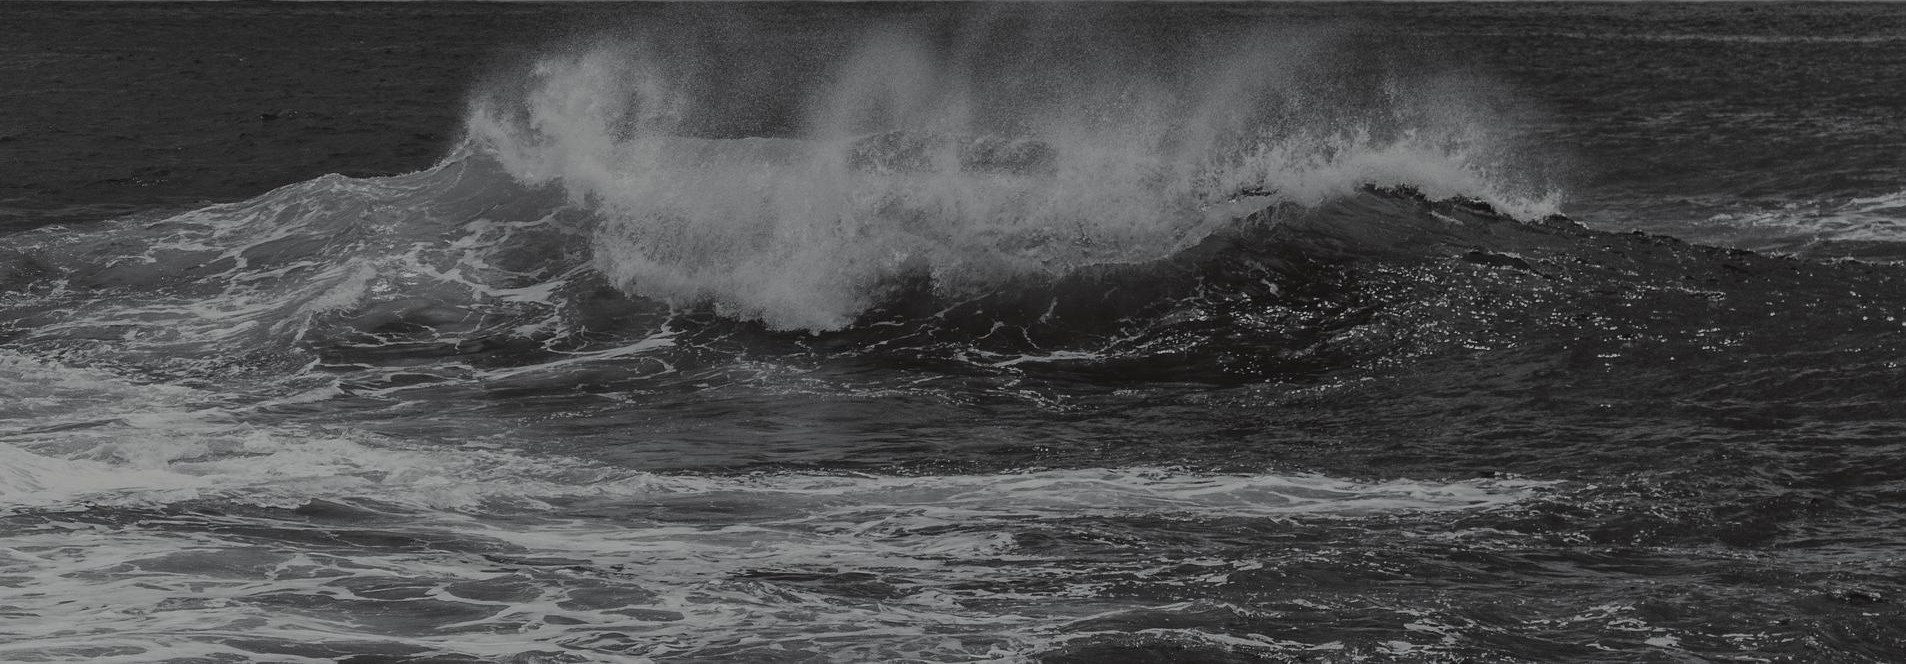
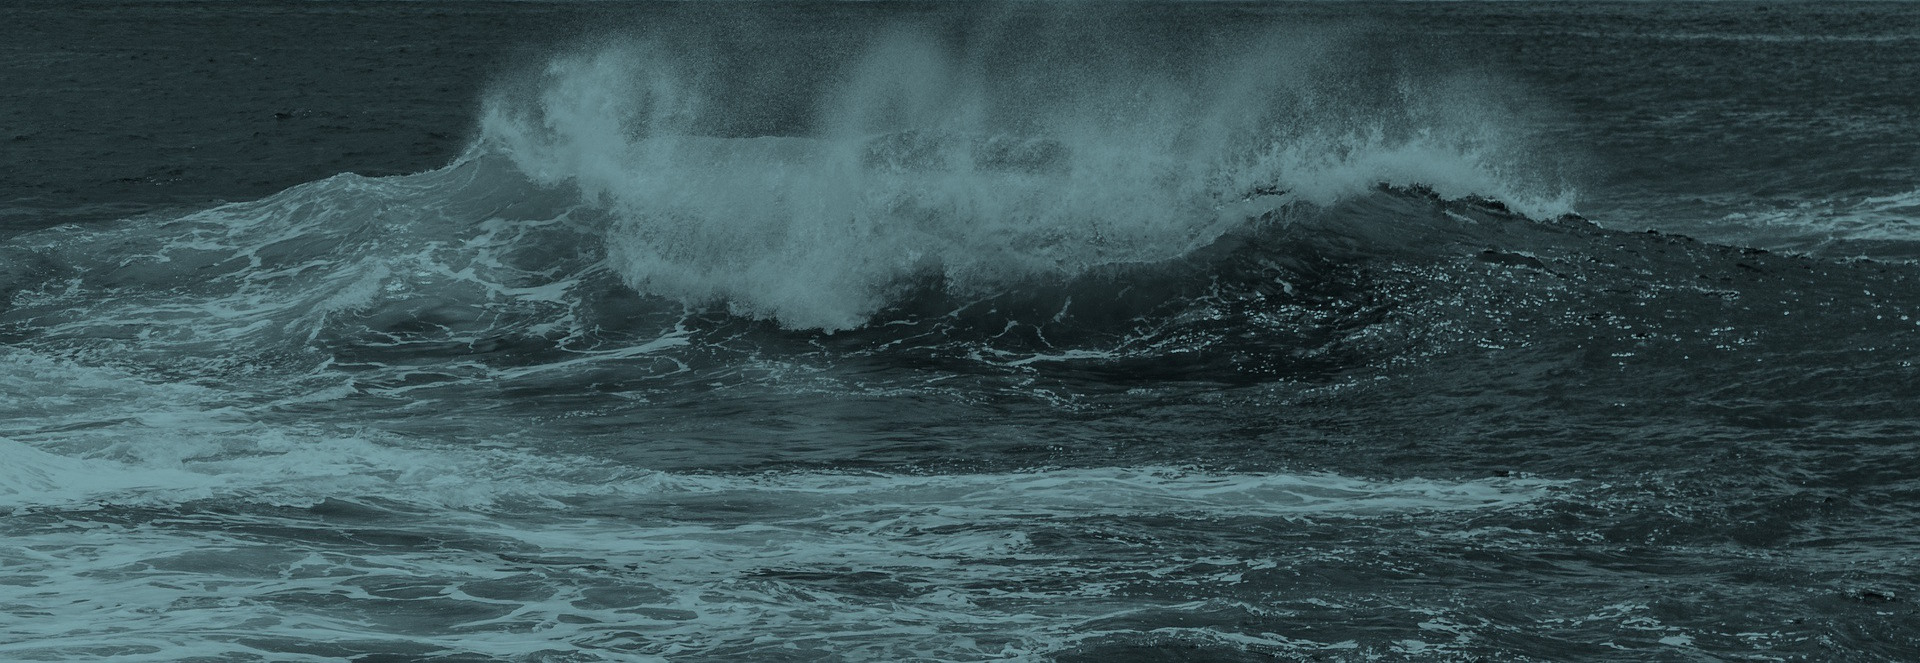
Add homepage header to top level pages

diff --git a/pages/about-us.md b/pages/about-us.md
@@ -5,8 +5,8 @@ meta_title: "About Trident Systems"
 permalink: "/about-us/"
 subheadline: "Over 5 years of development, partnerships and production"
 header: no
-image:
-    title: TridentSystems_logo_full.png
+header:
+    image_fullwidth: homepage_colourshift.jpg
 ---
 Trident Systems was established in 2012 to provide high quality research
 services supporting the effective and efficient management of New Zealand’s
@@ -38,3 +38,5 @@ Read more about:
 + [Our approach](/about-us/approach/ "Our approach") to fisheries research
 + [Our people](/about-us/people/ "Our people")
 + [Our partners](/about-us/partners/ "Our partners")
+
+<img class="t60" src="{{ site.urlimg }}TridentSystems_logo_full.png" alt="">

diff --git a/pages/our-work.md b/pages/our-work.md
@@ -3,6 +3,8 @@ layout: page
 title: "Our Work"
 subheadline: "Undertaking R&D and applying the outcomes"
 permalink: "/our-work/"
+header:
+    image_fullwidth: homepage_colourshift.jpg
 ---
 
 Trident undertakes two types of project:
